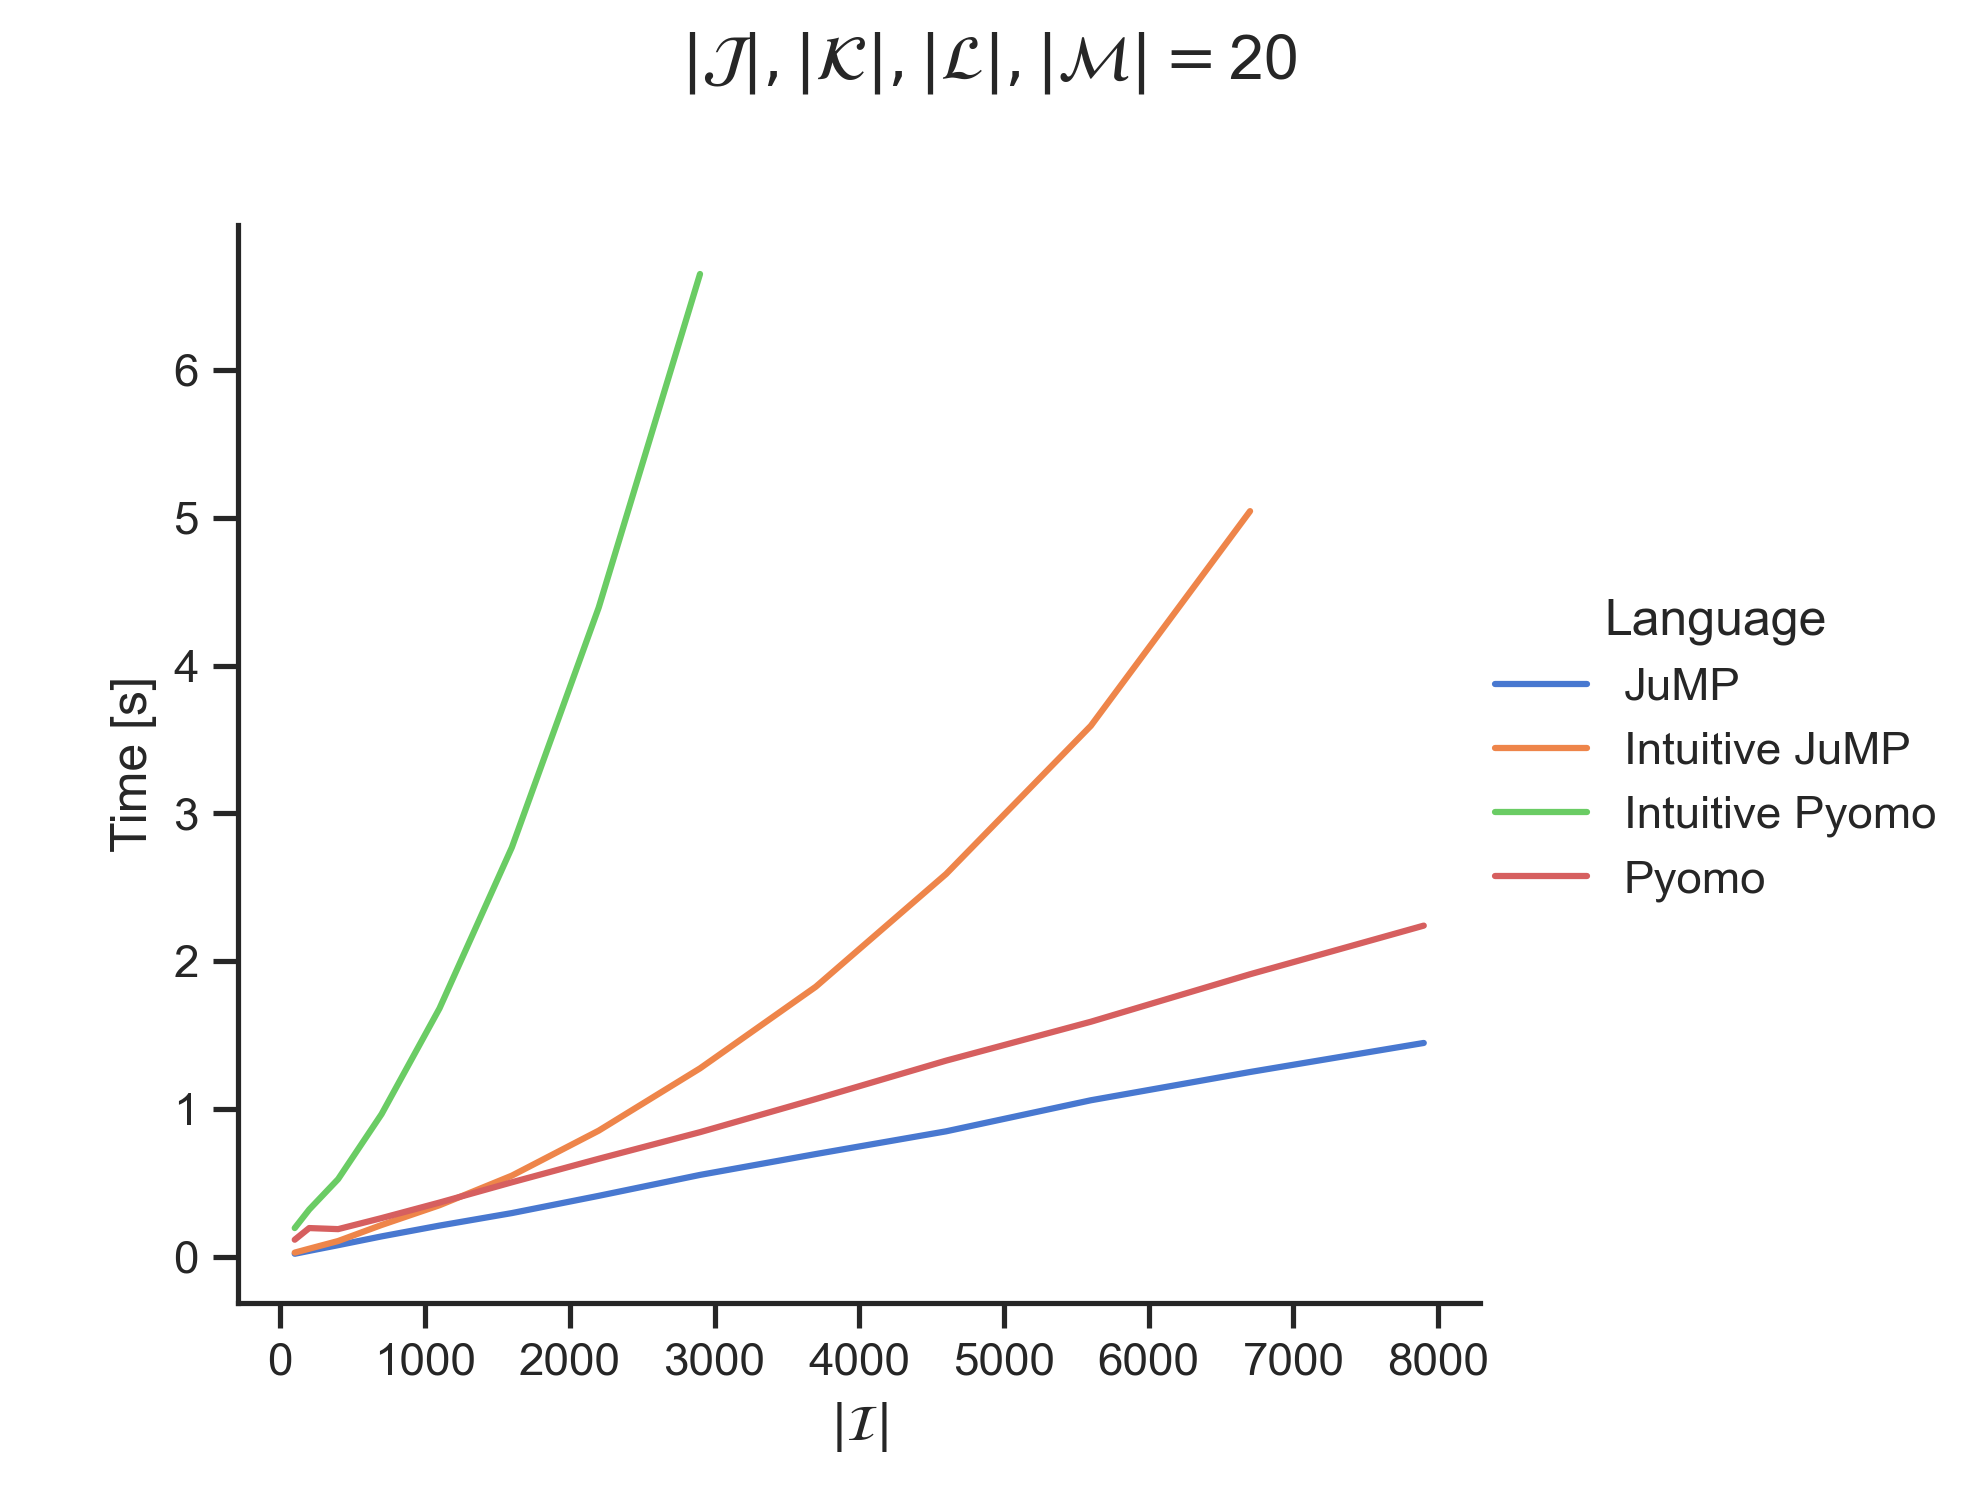
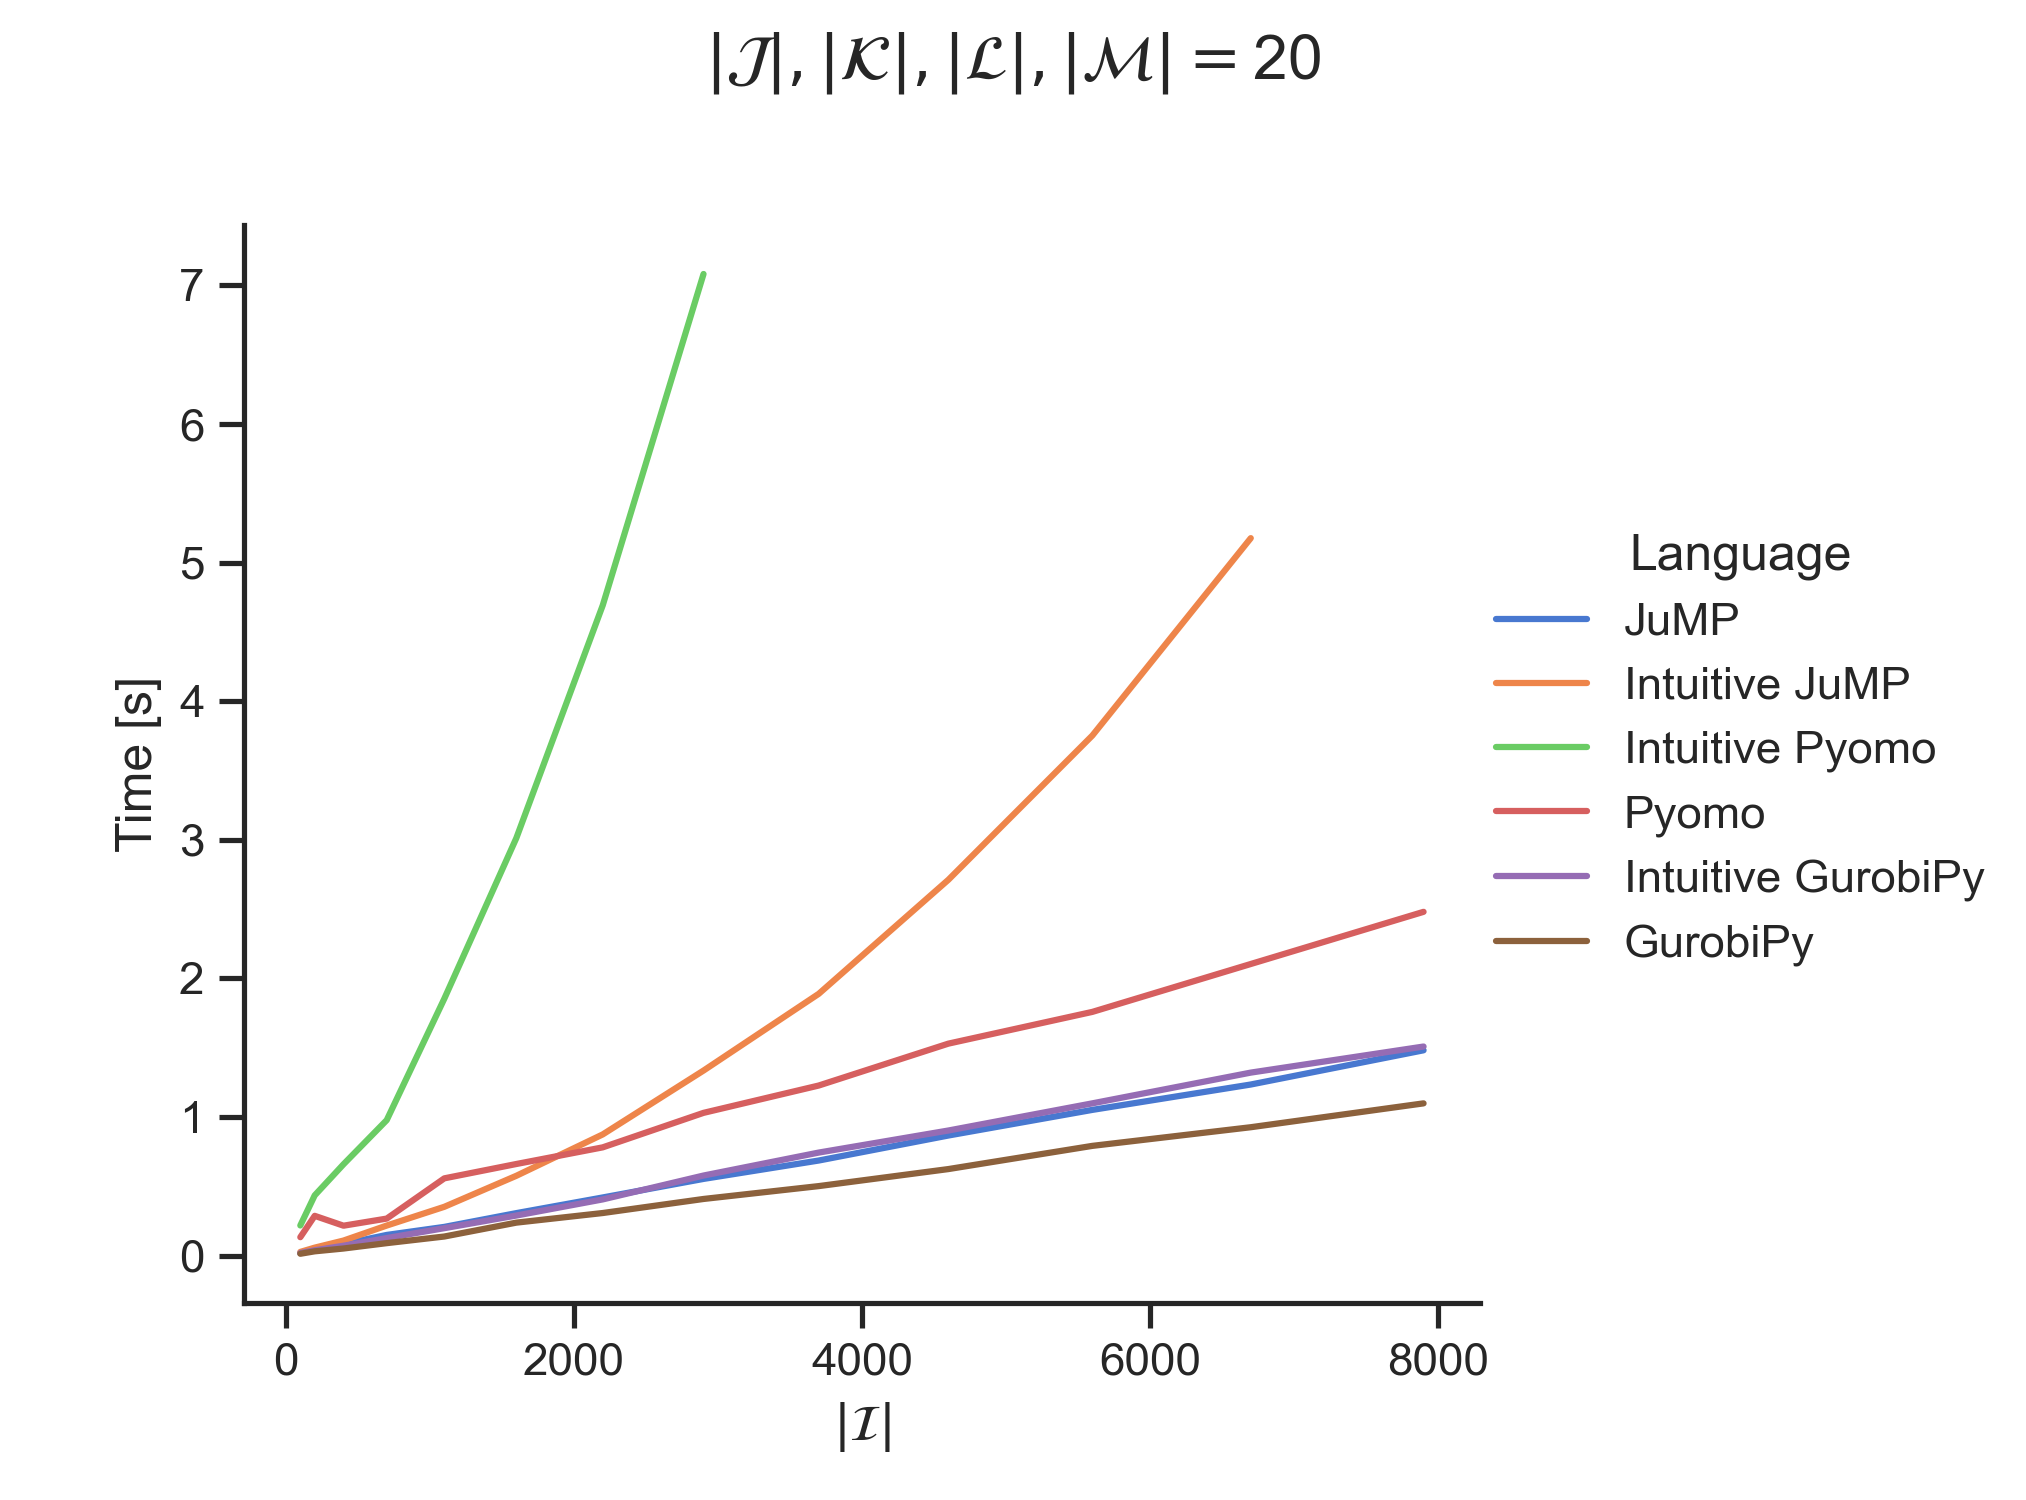
IKLM final

diff --git a/IJKLM/run_gurobipy.py b/IJKLM/run_gurobipy.py
@@ -132,12 +132,10 @@ def gurobi(I, IJK, JKL, KLM, solve):
 
     model.setObjective(1, gpy.GRB.MINIMIZE)
 
-    for i in I:
-        if constraint_dict_i[i]:
-            model.addConstr(
-                (gpy.quicksum(x[ijklm] for ijklm in constraint_dict_i[i]) >= 0),
-                "ei",
-            )
+    model.addConstrs(
+        (gpy.quicksum(x[ijklm] for ijklm in constraint_dict_i[i]) >= 0 for i in I),
+        "ei",
+    )
 
     model.update()
 
